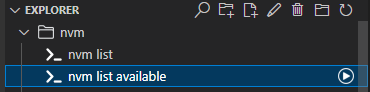
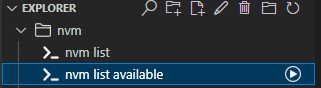
Update README.md

diff --git a/README.md b/README.md
@@ -11,6 +11,7 @@ You can also use it as a command reference.
 - Send commands to the terminal instantly.
 - Automatically reflects the command in the executor view when selected.
 - Edit commands in the executor view, or enter and execute any command (send with Ctrl+Enter).
+- Filter commands by label via a search input (persisted per workspace).
 
 ## Views
 
@@ -57,6 +58,15 @@ A view to edit and execute commands.
 1. Select the category/command node you want to edit or delete in the Explorer.
 2. Click the "Edit" or "Delete" button in the Explorer's operation panel.
 3. When editing, overwrite the registration information with the same items as when registering. When deleting, allow the deletion in the confirmation dialog.
+
+### Filtering
+
+1. Click the search icon in the Explorer title bar to open an input box.
+2. Enter text to filter by label (case-insensitive).
+   - Use `|` to OR terms.
+   - If a category label matches, the category and all of its commands are shown.
+   - If a command label matches, only the matched command is shown under its parent category.
+3. Use the Clear Filter button (shown while filtering) to remove the filter. The filter text is remembered per workspace.
 
 ## Settings
 
